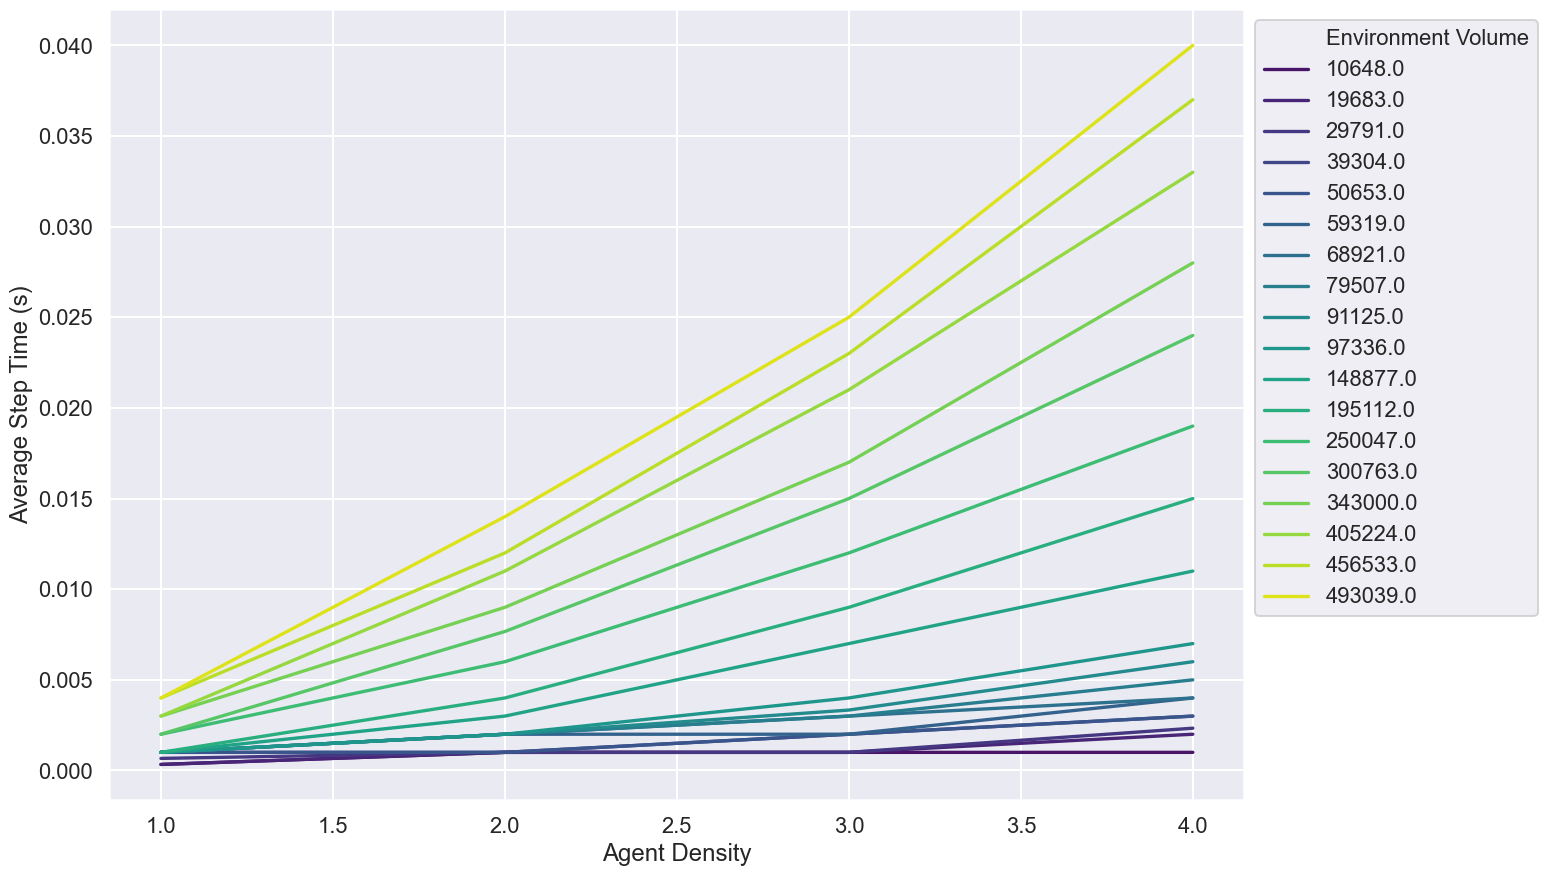
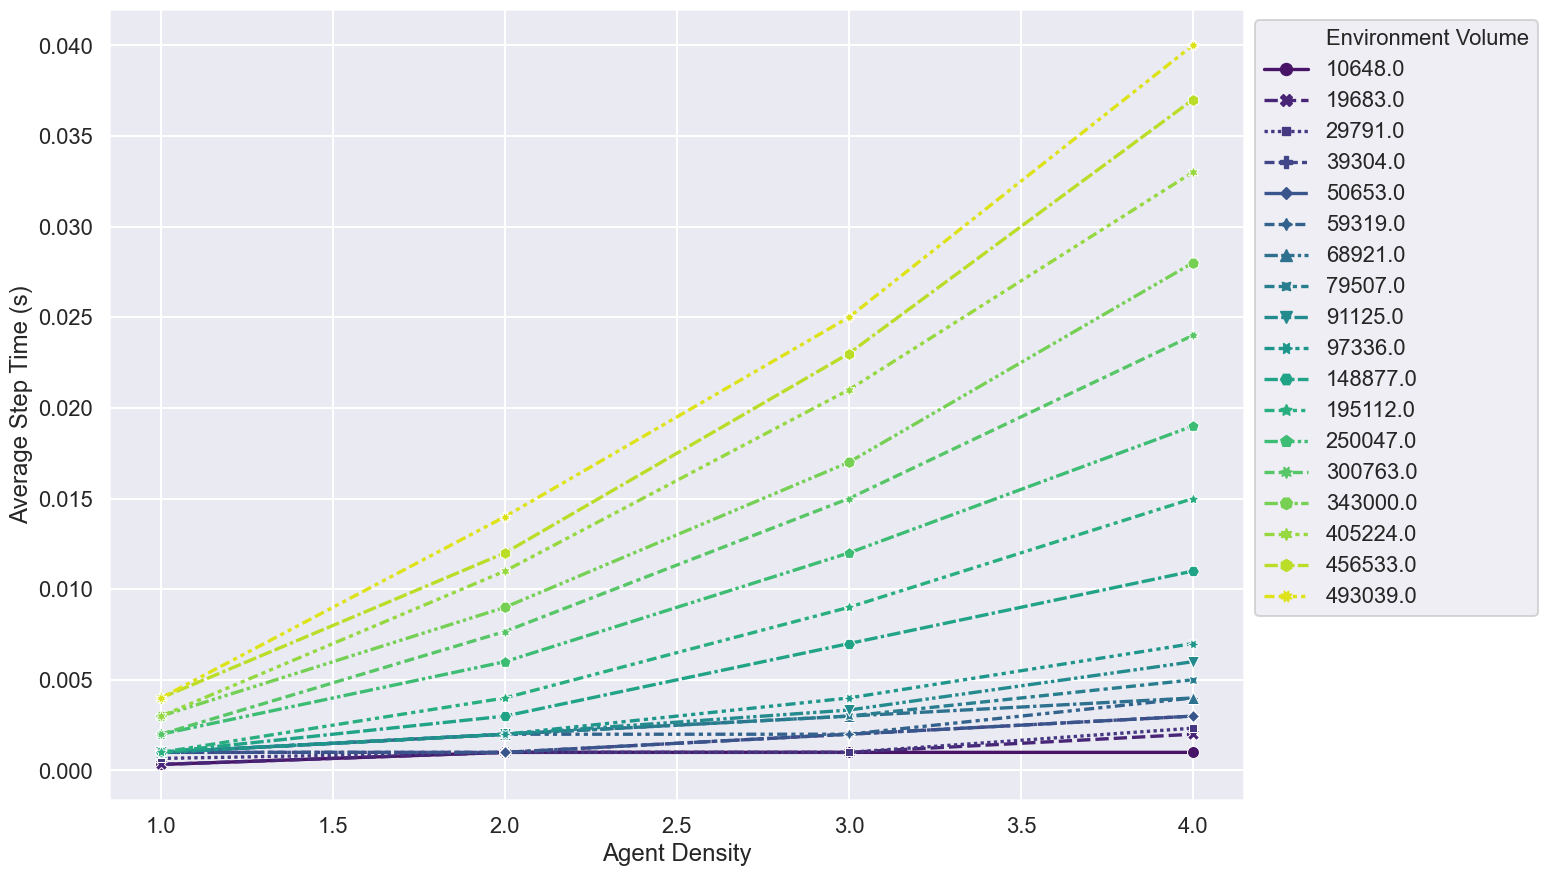
Address Petes review requests

diff --git a/plot.py b/plot.py
@@ -389,8 +389,8 @@ class PlotOptions:
                 y=self.ykey, 
                 hue=self.huekey, 
                 style=self.stylekey, 
-                markers=False,
-                dashes = False,
+                markers=True,
+                dashes = True,
                 ax=ax,
                 # size=6,
                 legend=self.sns_legend,
@@ -403,7 +403,7 @@ class PlotOptions:
                 y=self.ykey, 
                 hue=self.huekey, 
                 style=self.stylekey, 
-                markers=False,
+                markers=True,
                 ax=ax,
                 # size=6,
                 legend=self.sns_legend,
@@ -527,7 +527,7 @@ PLOTS_PER_CSV={
             # df_query="model == 'circles_spatial3D' or model == 'circles_spatial3D_rtc'",
             minx=0,
             miny=0,
-            maxy=200,
+            maxy=0.1,
         ),
         # PlotOptions(
         #     filename="volume--message-count--model--zoomed.png",
@@ -564,7 +564,7 @@ PLOTS_PER_CSV={
             # df_query="model == 'circles_spatial3D' or model == 'circles_spatial3D_rtc'",
             minx=0,
             miny=0,
-            maxy=200,
+            maxy=0.1,
         ),
         # PlotOptions(
         #     filename="volume--message-count--model--zoomed.png",

diff --git a/README.md b/README.md
@@ -59,31 +59,30 @@ Detail of dependencies and the `cmake` build process are described in full in th
 ```bash
 # Configure 
 cmake . -B build -DCMAKE_BUILD_TYPE=Release -DSEATBELTS=OFF -DBUILD_SWIG_PYTHON=OFF -DCUDA_ARCH=70
+# Build
 cmake --build build -j`nproc` 
-make
 ```
 
 ### Execution and Data generation
 
-The `FLAMEGPU2_INC_DIR` environment variable must be set for run-time compilation (TRC) to succeed. This can be done at the same time as execution of the model. E.g. 
-
 ```bash
 cd build
-FLAMEGPU2_INC_DIR=./_deps/flamegpu2-src/include/ ./bin/Release/circles-benchmarking 
+./bin/Release/circles-benchmarking 
 ```
+This will produce a number of `.csv` files in the `build` directory.
 
-This will produce 6 `.csv` files in the `build` directory.
+Note: The `FLAMEGPU2_INC_DIR` environment variable may need to be set to `./_deps/flamegpu2-src/include/` for run-time compilation (RTC) to succeed if the source directory is not automatically found.
+
 
 ## Plotting Results
 
-### Dependencies
-
-
 Figures can be generated from data in CSV files via a python script.
+
+### Dependencies
 
 It is recommended to use python virtual environment or conda environment for plotting dependencies.
 
-I.e. for linux to install the dependencies into a python3 virtual environment and plot the data within `build/performance_scaling.csv`
+I.e. for Linux to install the dependencies into a python3 virtual environment and plot the results from all experiments output to the `build` directory.
 
 ```bash
 # From the root of the repository
@@ -101,5 +100,5 @@ python3 plot.py build -o build/figures
 The sample figures were generated from the root directory using
 
 ```bash
-python3 plot.py sample/data/v100-470.82.01/alpha.2-v100-11.0-beltsoff -o sample/data-figures/v100-470.82.01/alpha.2-v100-11.0-beltsoff
+python3 plot.py sample/data/v100-470.82.01/alpha.2-v100-11.0-beltsoff -o sample/figures/v100-470.82.01/alpha.2-v100-11.0-beltsoff
 ```

diff --git a/sample/readme.md b/sample/readme.md
@@ -16,18 +16,18 @@ The following machine configurations were used to obtained the data and figures 
 + GCC 9.3.0
 + CentOS 7.9.2009
 
-### GTX3080
+### RTX 3080
 
-+ GTX3080
++ RTX 3080
 + NVIDIA Driver 495.29.05
 + CUDA 11.2
-+ GCC 7.5.0
-+ Ubuntu 16.04.7 LTS
++ GCC 8.4.0
++ Ubuntu 20.04.3 LTS
 
 ### Titan V
 
 + Titan V 12GB
 + NVIDIA Driver 495.29.05
 + CUDA 11.2
-+ GCC 7.5.0
-+ Ubuntu 16.04.7 LTS
++ GCC 8.4.0
++ Ubuntu 20.04.3 LTS
